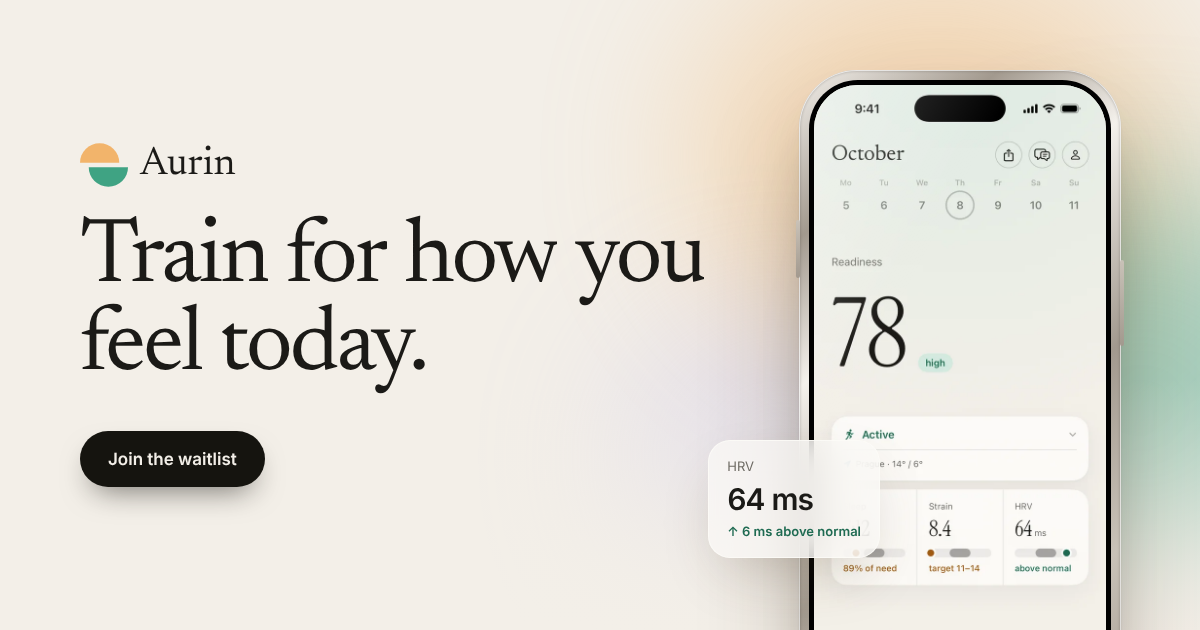
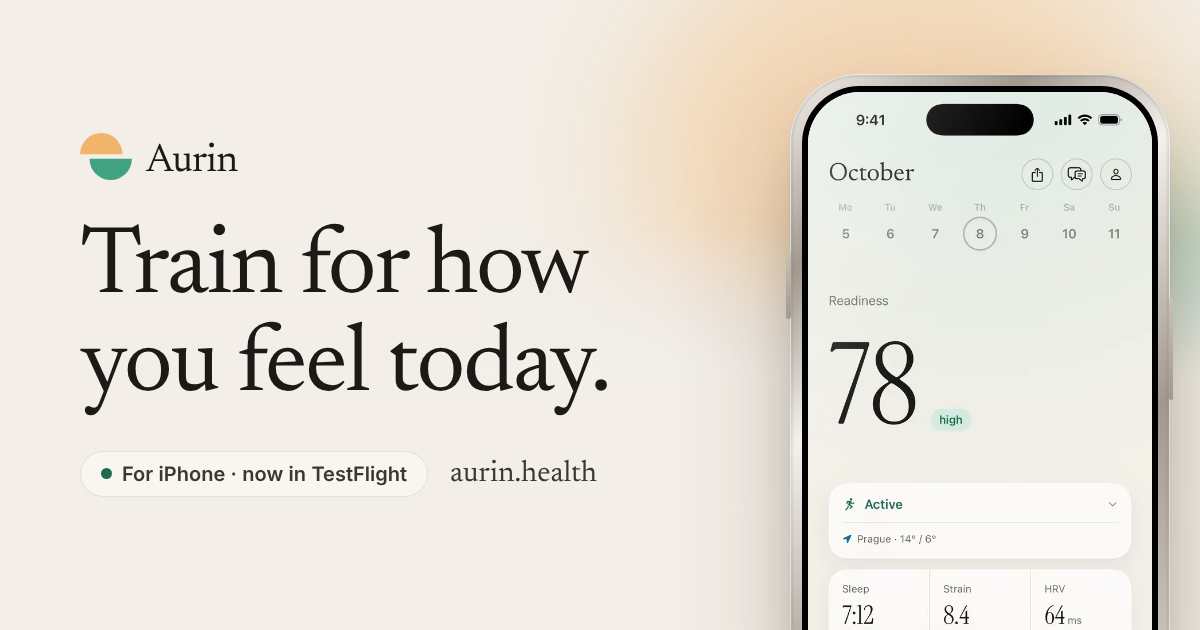
A cleaner share image and a security.txt
The link-preview image (og-en.png) is rendered by render-overview.mjs as its
own shot: the headline, the Today screen and aurin.health, without the
waitlist button that cannot be clicked in a preview and without the HRV card
that covered the screen. ?v=3 makes the networks fetch it again.
/.well-known/security.txt says where to report a security problem.

Claude-Session: https://claude.ai/code/session_013AaL8ZyzG2uRNHRarYHmTN

diff --git a/scripts/render-overview.html b/scripts/render-overview.html
@@ -4,7 +4,8 @@
 <title>Aurin overview images</title>
 <!--
   The overview of the app as a set of images (an Apple-style product overview): the hero, one board with
-  everything, a card per area of the app, the connections and the call for testers. render-overview.mjs
+  everything, a card per area of the app, the connections and the call for testers. og-en is the website's
+  share image (public/site/og-en.png, 1200×630): after rendering it, raise ?v= of SHARE_IMAGE in site-pages.js. render-overview.mjs
   opens this page and saves every [data-shot] element as a PNG. The words follow the overview on
   aurin.health (src/site-pages.js) and DESIGN.md; the screens are the app's own (public/site/app/).
 -->
@@ -62,6 +63,18 @@ h1,h2,.serif{font-family:Newsreader,"New York",Georgia,serif;font-weight:400;let
 #hero .phone.m{left:1140px;top:130px;--z:1.6;z-index:3}
 #hero .phone.l{left:940px;top:360px;--z:1.25;z-index:1}
 #hero .phone.r{left:1570px;top:360px;--z:1.25;z-index:2}
+
+/* 0 · The share image for link previews (public/site/og-en.png): nothing that looks clickable, nothing over the screen. */
+#og{width:1200px;height:630px}
+#og .aurora{transform:scale(.6);transform-origin:top right}
+#og .words{position:absolute;left:80px;top:0;bottom:0;width:640px;display:flex;flex-direction:column;justify-content:center;z-index:2}
+#og .brand{font-size:40px;gap:14px}
+#og h1{font-size:96px;margin:30px 0 34px}
+#og .meta{display:flex;align-items:center;gap:22px}
+#og .kicker{font-size:20px;padding:10px 20px;gap:10px}
+#og .kicker i{width:11px;height:11px}
+#og .site{font-family:Newsreader,serif;font-size:30px;color:var(--sec)}
+#og .phone{left:790px;top:74px;--z:1.18;z-index:3}
 
 /* 2 · Everything on one board. */
 #all{width:2000px;height:3100px;padding:120px 96px 0}
@@ -126,6 +139,16 @@ h1,h2,.serif{font-family:Newsreader,"New York",Georgia,serif;font-weight:400;let
 #testers .glow{width:900px;height:900px;left:900px;bottom:-300px}
 </style>
 <body>
+
+<section class="shot" id="og" data-shot="og-en">
+  <div class="aurora"><i class="a"></i><i class="b"></i><i class="c"></i></div>
+  <div class="words">
+    <div class="brand"><span class="mark" data-mark="52"></span>Aurin</div>
+    <h1>Train for how you feel today.</h1>
+    <div class="meta"><span class="kicker"><i></i>For iPhone · now in TestFlight</span><span class="site">aurin.health</span></div>
+  </div>
+  <div class="phone" data-phone="today"></div>
+</section>
 
 <section class="shot" id="hero" data-shot="01-hero">
   <div class="aurora"><i class="a"></i><i class="b"></i><i class="c"></i></div>

diff --git a/src/site-pages.js b/src/site-pages.js
@@ -507,7 +507,7 @@ addEventListener('keydown',function(e){if(e.key==='Escape'&&card.classList.conta
 
 // The share image (link previews on X, Facebook, LinkedIn, Slack, iMessage). The networks keep an image
 // for days by its URL, so ?v= goes up whenever og-en.png is rendered again.
-const SHARE_IMAGE = '/site/og-en.png?v=2';
+const SHARE_IMAGE = '/site/og-en.png?v=3';
 const SHARE_IMAGE_ALT = 'Aurin: Train for how you feel today. The Today screen with readiness 78.';
 
 function sitePage({title, description, lang, origin, path, body, czech=false, index=true, jsonLd=null}) {
